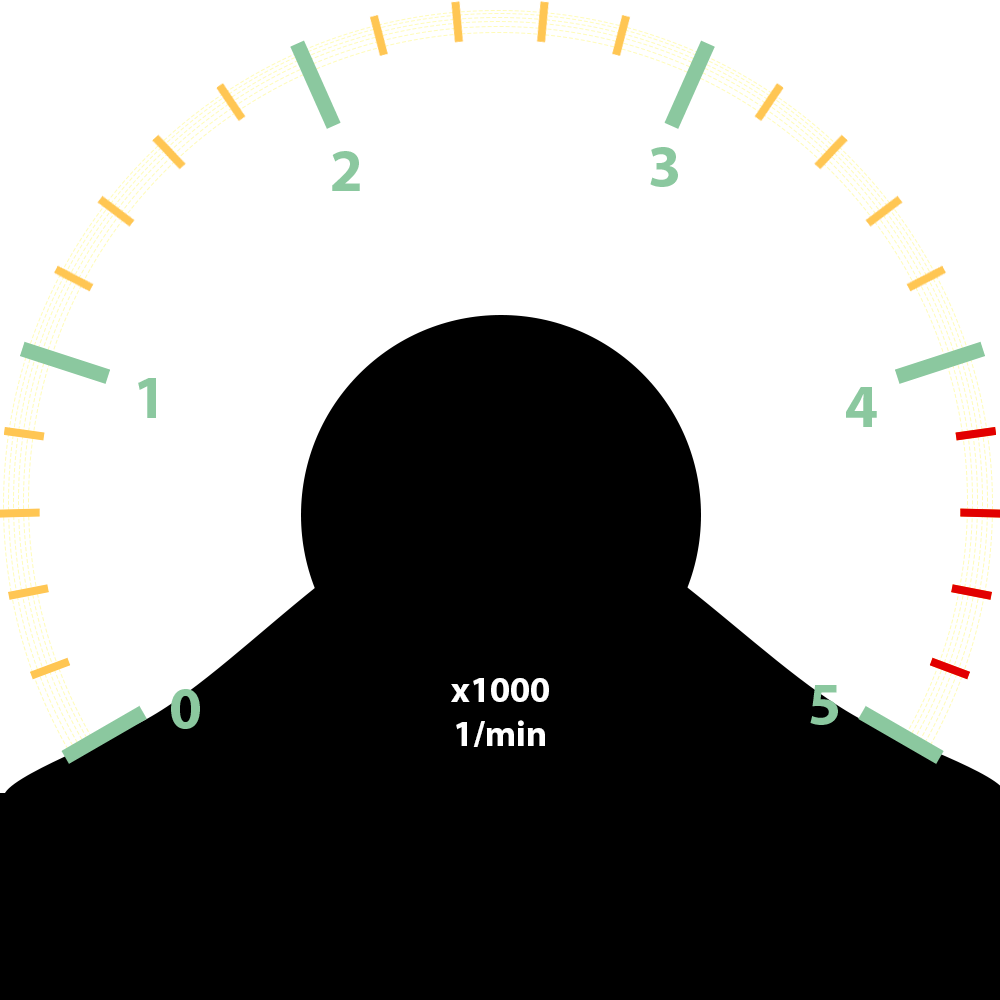
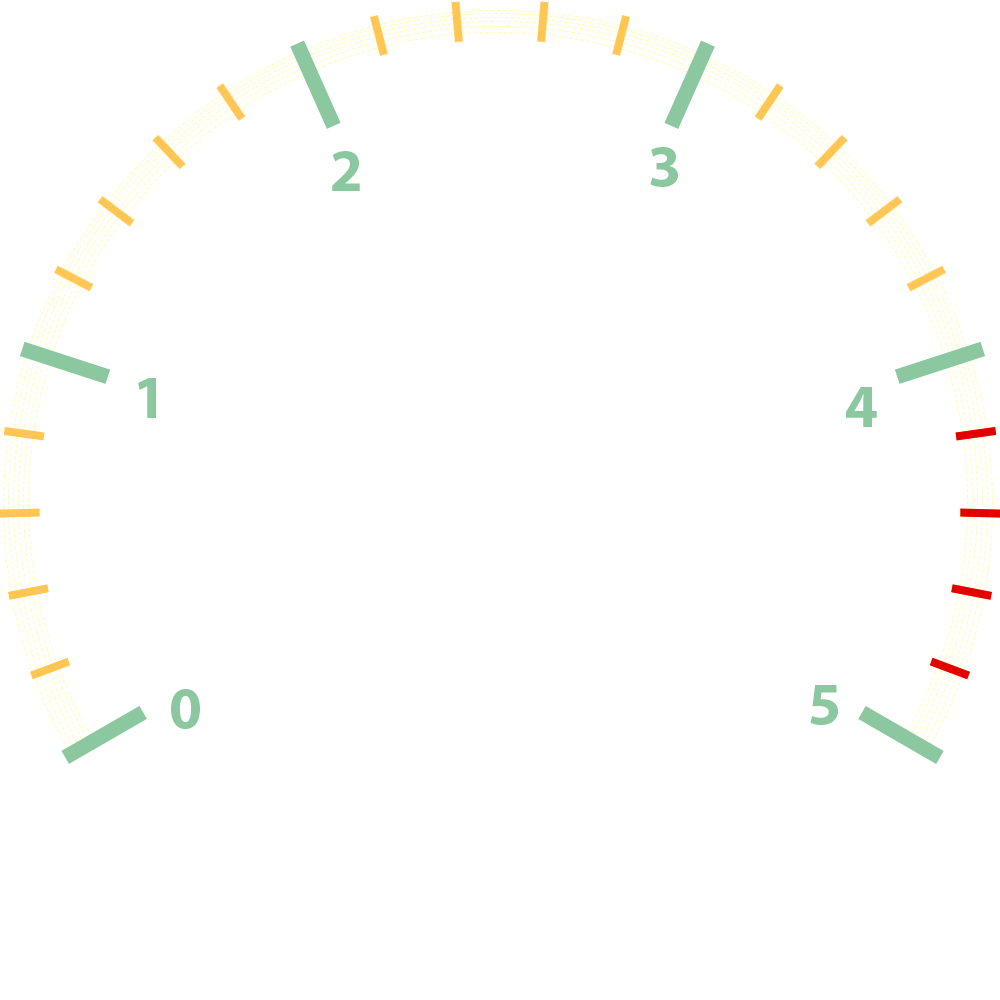
add speed

diff --git a/src/components/Speed.jsx b/src/components/Speed.jsx
@@ -1,0 +1,80 @@
+import React, { useState, useEffect } from "react";
+import vitesse from '../media/img/vitesse.png'
+import aiguille from '../media/img/aiguille.png'
+
+const Speedometer = ({ size = 200, needleAngle = 0 }) => {
+    const radius = size / 2;
+
+    // Ajuster l’angle : 0° = gauche, 180° = droite
+    const needleTransformAngle = needleAngle - 144;
+    const angle = -144 + (needleAngle / 240) * 288;
+  return (
+    <div
+      className="relative mx-auto"
+      style={{ width: size, height: size  }}
+    >
+        {/* Demi-cercle */}
+        <div className="absolute top-0 left-0  w-full h-full ">
+            <img src={vitesse} alt="" className="" />
+        </div>
+
+        {/* Aiguille */}
+
+        <img src={aiguille} alt="" className="absolute left-1/2   -translate-x-1/2 -translate-y-1/2  "
+            style={{
+            top: `${radius/1.8}px`,
+            left: '47.5%' , 
+            bottom: 0,
+            height: radius * 0.9, // longueur de l’aiguille
+            transform: `rotate(${angle}deg) translateY(-28%)`,}} />
+        
+        <div className="absolute bottom-2 left-1/2  -translate-x-1/2 -translate-y-1/2 text-center  border-0 outline-none text-orange-300 font-bold text-lg" >
+            {needleTransformAngle + 144}
+        </div>
+    
+    </div>
+  );
+};
+
+export default function Speed() {
+      const [angle, setAngle] = useState(0);
+      const [loading, setLoading] = useState(true);
+      const [speed, setSpeed] = useState();
+    
+      // // Fonction pour récupérer les données depuis Flask
+      // const fetchOBDSpeed = async () => {
+      //   try {
+      //     setLoading(true);
+      //     const response = await fetch("http://127.0.0.1:5000/api/get/speed");
+      //     if (!response.ok) throw new Error("Erreur serveur");
+    
+      //     const data = await response.json();
+    
+      //     setSpeed(data.speed); // true / false
+      //   } catch (err) {
+      //     console.error("Erreur fetch :", err);
+      //     setSpeed(0);
+      //   } finally {
+      //     setLoading(false);
+      //   }
+      // };
+    
+      // // Appel toutes les 2 secondes
+      // useEffect(() => {
+      //   fetchOBDSpeed();
+      //   const interval = setInterval(fetchOBDSpeed, 100);
+      //   return () => clearInterval(interval);
+      // }, []);
+
+
+  return (
+    <div className="p-10 block">
+      <Speedometer size={400} needleAngle={speed} />
+       
+
+
+      
+
+    </div>
+  );
+}

diff --git a/src/components/Rpm.jsx b/src/components/Rpm.jsx
@@ -1,0 +1,78 @@
+import React, { useState, useEffect } from "react";
+import tours from '../media/img/tours.png'
+import aiguille from '../media/img/aiguille.png'
+
+const Rpmmeter = ({ size = 200, needleAngle = 0 }) => {
+    const radius = size / 2;
+
+    // Ajuster l’angle : 0° = gauche, 180° = droite
+    const needleTransformAngle = needleAngle - 120;
+    const angle = -120 + (needleAngle / 5000) * 240;
+  return (
+    <div
+      className="relative mx-auto"
+      style={{ width: size, height: size  }}
+    >
+        {/* Demi-cercle */}
+        <div className="absolute top-0 left-0  w-full h-full ">
+            <img src={tours} alt="" className="" />
+        </div>
+
+        {/* Aiguille */}
+
+        <img src={aiguille} alt="" className="absolute left-1/2   -translate-x-1/2 -translate-y-1/2  "
+            style={{
+            top: `${radius/1.8}px`,
+            left: '47.5%' , 
+            bottom: 0,
+            height: radius * 0.9, // longueur de l’aiguille
+            transform: `rotate(${angle}deg) translateY(-28%)`,}} />
+        
+        <div className="absolute bottom-2 left-1/2  -translate-x-1/2 -translate-y-1/2 text-center  border-0 outline-none text-orange-300 font-bold text-lg" >
+            {needleTransformAngle + 120}
+        </div>
+    
+    </div>
+  );
+};
+
+export default function rpm() {
+      const [angle, setAngle] = useState(0);
+      const [rpm, setRpm] = useState();
+      const [loading, setLoading] = useState(true);
+    
+      // // Fonction pour récupérer les données depuis Flask
+      // const fetchOBDData = async () => {
+      //   try {
+      //     setLoading(true);
+      //     const response = await fetch("http://127.0.0.1:5000/api/get/rpm");
+      //     if (!response.ok) throw new Error("Erreur serveur");
+    
+      //     const data = await response.json();
+    
+      //     setRpm(data.rpm); // true / false
+      //   } catch (err) {
+      //     console.error("Erreur fetch :", err);
+      //     setRpm(0);
+      //   } finally {
+      //     setLoading(false);
+      //   }
+      // };
+    
+      // // Appel toutes les 2 secondes
+      // useEffect(() => {
+      //   fetchOBDData();
+      //   const interval = setInterval(fetchOBDData, 100);
+      //   return () => clearInterval(interval);
+      // }, []);
+
+
+  return (
+    <div className="p-10 block">
+      <Rpmmeter size={400} needleAngle={rpm} />
+     
+      
+
+    </div>
+  );
+}

diff --git a/src/pages/Home.jsx b/src/pages/Home.jsx
@@ -1,59 +1,15 @@
 import React, { useState } from "react";
-import tours from '../media/img/tours.png'
-import aiguille from '../media/img/aiguille.png'
+import Rpm from '../components/Rpm.jsx'
+import Speed from '../components/Speed.jsx'
 
-const Speedometer = ({ size = 200, needleAngle = 0 }) => {
-  const radius = size / 2;
-
-  // Ajuster l’angle : 0° = gauche, 180° = droite
-  const needleTransformAngle = needleAngle - 120;
-
-  return (
-    <div
-      className="relative mx-auto"
-      style={{ width: size, height: size / 2 }}
-    >
-      {/* Demi-cercle */}
-      <div className="absolute top-0 left-0  w-full h-full ">
-        <img src={tours} alt="" className="" />
-      </div>
-
-      {/* Aiguille */}
-
-      <img src={aiguille} alt="" className="absolute   origin-bottom bottom-0  "
-        style={{
-        left: '47.5%' , 
-          bottom: 0,
-          height: radius * 0.9, // longueur de l’aiguille
-          transform: `rotate(${needleTransformAngle}deg) translateX(0%) translateY(23%)`,}} />
-      {/* <div
-        className="absolute bg-red-500  origin-bottom bottom-0 left-1/2 transform -translate-x-1/2 -translate-y-1/2"
-        style={{
-          width: "1px",
-          height: radius * 0.9, // longueur de l’aiguille
-          transform: `rotate(${needleTransformAngle}deg) translateX(-50%)`,
-        }}
-      ></div> */}
-    </div>
-  );
-};
 
 export default function Home() {
-  const [angle, setAngle] = useState(0);
+  
 
   return (
-    <div className="p-10">
-      <Speedometer size={200} needleAngle={angle} />
-
-      {/* Contrôle de l’aiguille */}
-      <input
-        type="range"
-        min="0"
-        max="240"
-        value={angle}
-        onChange={(e) => setAngle(Number(e.target.value))}
-        className="mt-8 w-full"
-      />
+    <div className=" flex justify-center">
+        <Speed />
+        <Rpm />
     </div>
   );
 }

diff --git a/src/components/OBDStatus.jsx b/src/components/OBDStatus.jsx
@@ -5,7 +5,7 @@ function OBDStatus() {
   const [loading, setLoading] = useState(true);
 
   // Fonction pour récupérer les données depuis Flask
-  const fetchOBDData = async () => {
+  const fetchOBDConnexion = async () => {
     try {
       setLoading(true);
       const response = await fetch("http://127.0.0.1:5000/api/get/connexion");
@@ -24,8 +24,8 @@ function OBDStatus() {
 
   // Appel toutes les 2 secondes
   useEffect(() => {
-    fetchOBDData();
-    const interval = setInterval(fetchOBDData, 5000);
+    fetchOBDConnexion();
+    const interval = setInterval(fetchOBDConnexion, 5000);
     return () => clearInterval(interval);
   }, []);
 

diff --git a/src/App.jsx b/src/App.jsx
@@ -4,7 +4,7 @@ import Navbar from './components/Navbar.jsx'
 import Statebar from './components/Statebar.jsx'
 
 import Home from './pages/Home.jsx'
-import About from './pages/About.jsx'
+import Default from './pages/Default.jsx'
 
 
 const App = () => {
@@ -20,7 +20,7 @@ const App = () => {
                 </div>
                 <Routes>
                     <Route path="/home" element={<Home />} />
-                    <Route path="/about" element={<About />} />
+                    <Route path="/default" element={<Default />} />
                 </Routes>
                 <div className="w-full">
                     <Statebar />

diff --git a/src/main.js b/src/main.js
@@ -47,8 +47,8 @@ if (require('electron-squirrel-startup')) {
 // Crée la fenêtre Electron
 const createWindow = () => {
   const mainWindow = new BrowserWindow({
-    width: 800,
-    height: 600,
+    width: 1920,
+    height: 1100,
     webPreferences: {
 
       contextIsolation: true,

diff --git a/src/pages/Default.jsx b/src/pages/Default.jsx
@@ -1,7 +1,7 @@
 import React from 'react';
 
 
-const About = () => {
+const Default = () => {
     return (
 
         <div className="container-fluid p-0">
@@ -13,4 +13,4 @@ const About = () => {
     );
 };
 
-export default About;
+export default Default;

diff --git a/src/components/Readef.jsx b/src/components/Readef.jsx
@@ -1,0 +1,11 @@
+import React from 'react';
+
+const Readef = () => {
+    return (
+        <div>
+            
+        </div>
+    );
+};
+
+export default Readef;

diff --git a/python/server.py b/python/server.py
@@ -6,18 +6,18 @@ connection = obd.OBD()
 print("Connecté :", connection.is_connected())
 print("Statut :", connection.status())
 
-response = connection.query(obd.commands.GET_DTC)
-
-print("Réponse brute :", response)
-print("Valeur :", response.value)
-
-
-
 # response = connection.query(obd.commands.GET_DTC)
 
-# if response and response.value:
-#     print("Codes défaut détectés :")
-#     for code in response.value:
-#         print(code)
-#     # Retourne les codes pour un traitement éventuel
-#     print(response.value)
+# print("Réponse brute :", response)
+# print("Valeur :", response.value)
+
+
+
+response = connection.query(obd.commands.GET_DTC)
+
+if response and response.value:
+    print("Codes défaut détectés :")
+    for code in response.value:
+        print(code)
+    # Retourne les codes pour un traitement éventuel
+    print(response.value)

diff --git a/python/compteur.py b/python/compteur.py
@@ -1,0 +1,29 @@
+import obd
+
+class OBDCompteurReader:
+
+    def __init__(self, connection):
+        self.connection = connection
+
+    def rpm(self):
+        cmd = obd.commands.RPM
+        response = self.connection.query(cmd)
+
+        if not response.is_null():
+            rpm = response.value.magnitude  # valeur numérique
+            print(f"RPM: {rpm}")
+            return rpm
+        else:
+            print("Aucune donnée")
+            return None
+        
+    def speed(self):
+        response = self.connection.query(self.cmd_speed)
+
+        if not response.is_null():
+            speed = response.value.to("km/h").magnitude
+            print(f"Vitesse: {speed} km/h")
+            return speed
+        else:
+            print("Aucune donnée vitesse")
+            return None

diff --git a/python/index.py b/python/index.py
@@ -4,8 +4,13 @@ import obd
 from flask import Flask, jsonify
 from flask_cors import CORS
 from default import OBDDefaultReader
+from compteur import OBDCompteurReader
+
+
 connection = obd.OBD()
+
 default = OBDDefaultReader(connection)
+compteur = OBDCompteurReader(connection)
 
 app = Flask(__name__)
 CORS(app)
@@ -23,9 +28,19 @@ def read_connexion():
 
 
 # @app.route('/api/delete/default')
-# def read_default():
+# def delete_default():
 #     code = default.delete()
 #     return jsonify({"message": code})
+
+# @app.route('/api/get/rpm')
+# def read_rpm():
+#     code = compteur.rpm()
+#     return jsonify({"rpm": code})
+
+# @app.route('/api/get/speed')
+# def read_speed():
+#     code = compteur.speed()
+#     return jsonify({"speed": code})
 
 
 
